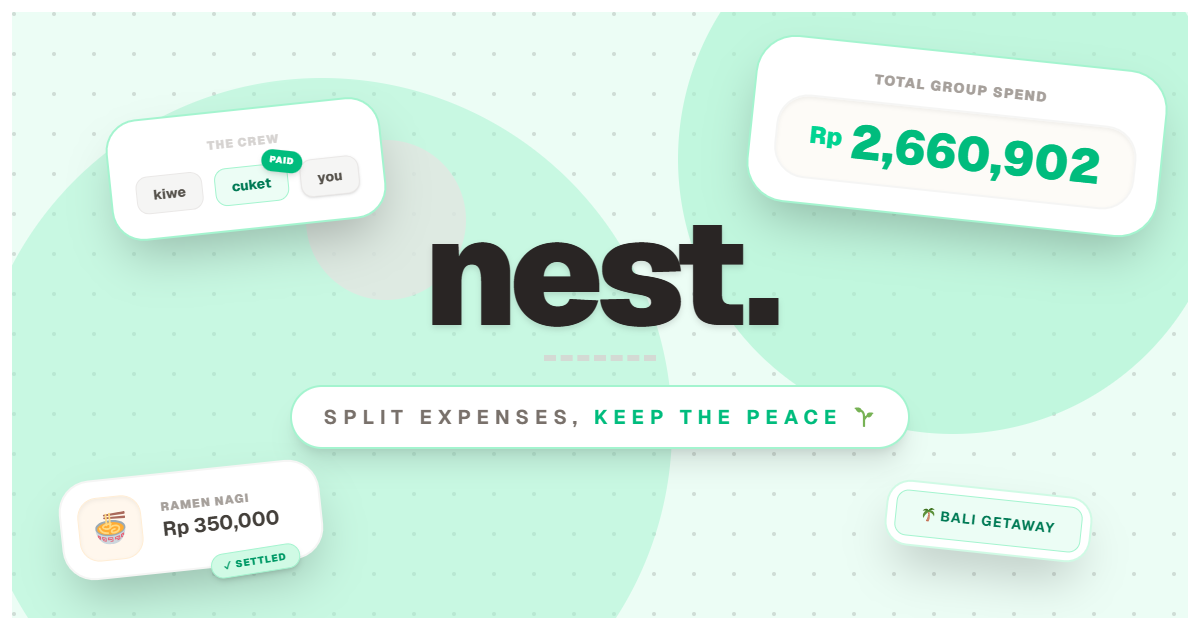
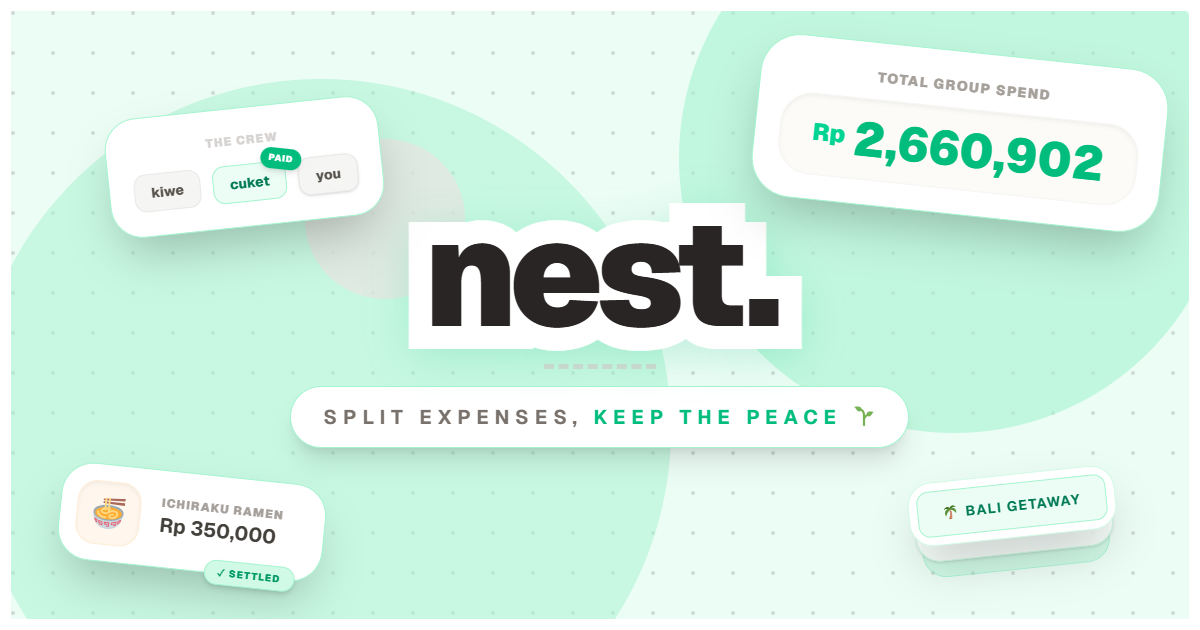
not found

diff --git a/app/previews/opengraph/page.tsx b/app/previews/opengraph/page.tsx
@@ -102,21 +102,21 @@ export default function OGPreviewSpatialUI() {
           </div>
         </div>
 
-        <div className="absolute bottom-12 left-12 transform -rotate-6 z-20">
-          <div className="bg-white p-4 rounded-4xl shadow-2xl border-2 border-stone-100 flex items-center gap-5 relative">
+        <div className="absolute bottom-12 left-12 transform -rotate-354 z-20">
+          <div className="bg-white p-4 rounded-4xl shadow-2xl border-2 border-emerald-200 flex items-center gap-5 relative">
             <div className="w-16 h-16 bg-orange-50 border border-orange-100 rounded-[1.25rem] flex items-center justify-center shadow-inner">
               <Emoji char="🍜" className="h-8! w-8!" />{" "}
             </div>
             <div className="flex flex-col pr-6 pb-2">
               <span className="text-xs font-black text-stone-400 uppercase tracking-widest mb-1">
-                ramen nagi
+                ichiraku ramen
               </span>
               <span className="text-xl font-bold text-stone-700 leading-none">
                 Rp 350,000
               </span>
             </div>
 
-            <div className="absolute -bottom-3 right-6 bg-emerald-100 border border-emerald-200 text-emerald-600 px-3 py-1 rounded-full shadow-md flex items-center transform -rotate-3">
+            <div className="absolute -bottom-3 right-6 bg-emerald-100 border border-emerald-200 text-emerald-600 px-3 py-1 rounded-full shadow-md flex items-center transform">
               <span className="text-[10px] font-black uppercase tracking-widest">
                 ✓ settled
               </span>
@@ -124,20 +124,37 @@ export default function OGPreviewSpatialUI() {
           </div>
         </div>
 
-        <div className="absolute bottom-16 right-24 transform rotate-6 bg-white shadow-2xl rounded-3xl p-2 border-2 border-emerald-100 z-20">
-          <span className="font-bold px-6 py-3 bg-emerald-50 text-emerald-700 rounded-xl text-sm uppercase tracking-widest border border-emerald-200 block">
-            <Emoji char="🌴" /> bali getaway
-          </span>
+        {/* Bottom Right: Stacked Trip Tags (Vertical Stack) */}
+        <div className="absolute bottom-20 right-18 rotate-354 z-20 flex flex-col items-center">
+          {/* Bottom-most card shadow layer */}
+          <div className="absolute top-8 w-[90%] h-full bg-emerald-200/40 rounded-3xl -z-20 border-2 border-emerald-300/30"></div>
+
+          {/* Middle card shadow layer */}
+          <div className="absolute top-4 w-[95%] h-full bg-white/80 rounded-3xl -z-10 border-2 border-emerald-100 shadow-sm"></div>
+
+          {/* Top Primary card */}
+          <div className="bg-white shadow-2xl rounded-3xl p-2 border-2 border-emerald-100">
+            <span className="font-bold px-6 py-3 bg-emerald-50 text-emerald-700 rounded-xl text-sm uppercase tracking-widest border border-emerald-200 block flex items-center gap-2">
+              <Emoji char="🌴" /> bali getaway
+            </span>
+          </div>
         </div>
 
         <div className="absolute inset-0 flex flex-col items-center justify-center pointer-events-none z-10">
-          <h1 className="text-[150px] font-black text-stone-800 tracking-tighter leading-none drop-shadow-md mt-4">
+          <h1
+            className="text-[150px] font-black text-stone-800 tracking-tighter leading-none mt-4 mb-2"
+            style={{
+              WebkitTextStroke: "46px white",
+              paintOrder: "stroke fill",
+              filter: "drop-shadow(0 10px 20px rgba(16, 185, 129, 0.2))",
+            }}
+          >
             nest.
           </h1>
 
           <div className="w-28 border-t-[6px] border-dashed border-stone-300/80 my-2"></div>
 
-          <div className="bg-white px-8 py-4 mt-4 rounded-full border-2 border-emerald-200 shadow-xl pointer-events-auto">
+          <div className="bg-white px-8 py-4 mt-2 rounded-full border-2 border-emerald-200 shadow-xl pointer-events-auto">
             <p className="text-xl font-bold text-stone-500 uppercase tracking-[0.3em]">
               split expenses,{" "}
               <span className="text-emerald-500">

diff --git a/app/not-found.tsx b/app/not-found.tsx
@@ -1,0 +1,26 @@
+import Link from "next/link";
+
+export default function NotFound() {
+  return (
+    <main className="flex min-h-screen flex-col items-center justify-center p-6 bg-[#fdfbf7]">
+      <div className="text-6xl mb-6 grayscale opacity-50" aria-hidden="true">
+        🪹
+      </div>
+
+      <h2 className="text-xl font-black text-stone-800 mb-2 tracking-tight">
+        404 — empty nest
+      </h2>
+
+      <p className="text-sm text-stone-500 font-bold mb-8">
+        hmm, couldn&apos;t find the page you&apos;re looking for.
+      </p>
+
+      <Link
+        href="/"
+        className="px-6 py-3 bg-white border-2 border-stone-200 rounded-full text-sm text-stone-700 font-bold hover:border-emerald-500 hover:text-emerald-600 hover:-translate-y-1 transition-all shadow-sm flex items-center gap-2"
+      >
+        <span>←</span> head back home
+      </Link>
+    </main>
+  );
+}

diff --git a/lib/changelog.ts b/lib/changelog.ts
@@ -2,6 +2,17 @@ import { Release } from "./types";
 
 export const releases: Release[] = [
   {
+    version: "2.4.2",
+    date: "apr 30, 2026",
+    title: "add not found 🛡️",
+    badge: "patch",
+    badgeColor: "bg-teal-100 text-teal-700 border-teal-200",
+    features: [
+      "added not found page.",
+      "refined opengraph image.",
+    ],
+  },
+  {
     version: "2.4.1",
     date: "apr 30, 2026",
     title: "global emoji push 🍃",